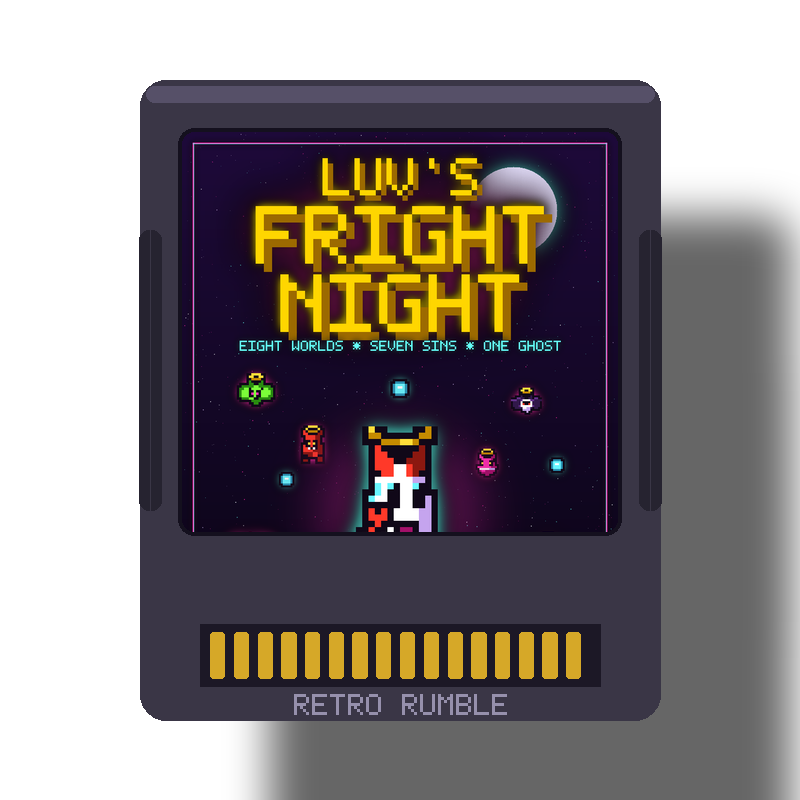
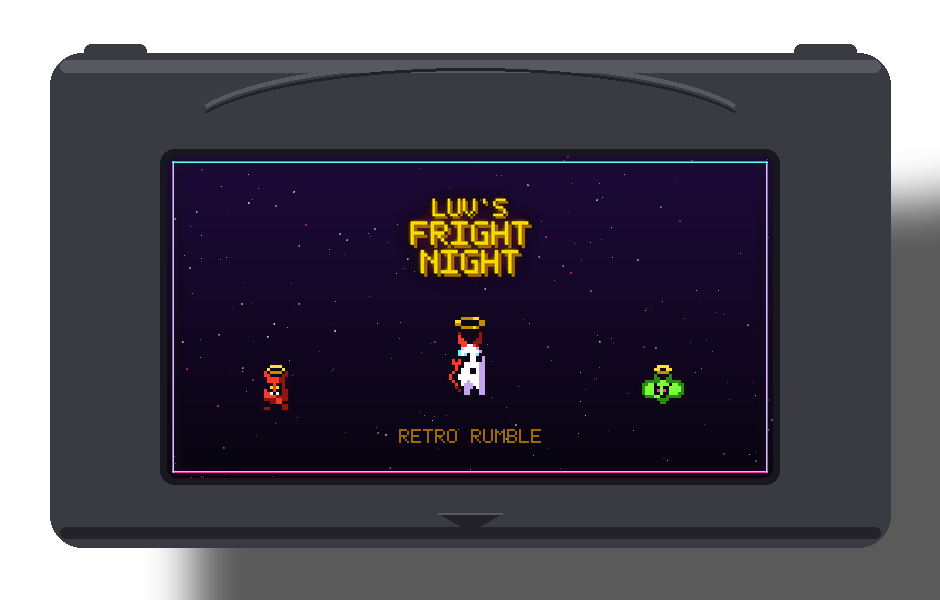
The cartridge was the wrong shape entirely
A Game Boy Advance cartridge is landscape, about 1.7 to 1. Mine was
portrait, which is a Game Boy or a DS card, not this. Rebuilt against a
photograph of a blank shell: the proportions of the label are measured off
it - 14% margins at the sides, 21% above, 14% below - and that wide top
band is what carries the shallow dome moulded across the shell. The tabs
at the upper corners clear the top edge by a few pixels, which is what
stops them reading as ears, and the thumb notch sits at the foot.

The label had to be redrawn too. The box front is portrait and cropping it
to a landscape label loses either the wordmark or the ghost, so the label
lays the same pieces out in bands that cannot collide.

The moulded lettering on a real shell reads GAME BOY ADVANCE and is not
reproduced. The silhouette is what makes it read as a cartridge; the
wordmark is Nintendo's.

The pairing shot picked the new cart up and needed reseating - a landscape
object stands on the same line as the box rather than floating beside its
middle.

diff --git a/tools/gen_print.py b/tools/gen_print.py
@@ -92,71 +92,108 @@ def shadow(img, blur=18, strength=0.75, offset=(14, 18)):
 
 # ---------------------------------------------------------------- cartridge
 
-def cartridge(path, w=800, h=800):
+def _cart_label(w, h):
     """
-    The cart itself: grey shell, printed label, gold contacts.
+    The printed label, drawn landscape.
 
-    Frontends that show a "support" image expect the thing you would actually
-    hold, so the label is the box art cropped to the label's own proportions
-    rather than the box shrunk down.
+    The box front is portrait, and cropping it to a cartridge label loses
+    either the wordmark or the ghost. This lays the same pieces out for the
+    shape the label actually is, in bands that cannot collide.
+    """
+    img = gs.backdrop(w, h, seed=17)
+
+    lock, _pad = gs.title_block(4, 3)
+    lock.thumbnail((int(w * 0.70), int(h * 0.38)), Image.LANCZOS)
+    img.alpha_composite(lock, ((w - lock.width) // 2, int(h * 0.06)))
+
+    # Luv sits in the middle band, sized so his feet stop above the credit.
+    feet = int(h * 0.80)
+    luv = gs.sprite('luv', 0, 32, 3)
+    img.alpha_composite(luv, ((w - luv.width) // 2, feet - luv.height))
+
+    for i, name in enumerate(('halo_imp', 'cherub_fiend')):
+        art = gs.sprite(name, 0, 16, 3)
+        x = int(w * (0.18 if i == 0 else 0.82)) - art.width // 2
+        img.alpha_composite(art, (x, feet - art.height))
+
+    strip = Image.new('RGBA', (w, 30), (0, 0, 0, 0))
+    boxfont.centered(strip, 'RETRO RUMBLE', 0, gs.DGOLD, 2)
+    img.alpha_composite(strip, (0, int(h * 0.85)))
+
+    gs.neon_frame(img, 5, 2)
+    return img
+
+
+def cartridge(path, w=940, h=600):
+    """
+    A Game Boy Advance cartridge, seen face on.
+
+    Landscape at about 1.7 to 1, with the shallow dome moulded into the band
+    above the label, the two tabs at the upper corners and the thumb notch at
+    the foot. Proportions are taken off a real shell: the label leaves a wide
+    margin at the top - that band is where the moulded lettering goes - and
+    tighter ones at the sides and foot.
+
+    That lettering reads "GAME BOY ADVANCE" on a real cartridge and is not
+    reproduced here. The silhouette is what makes it read as a cartridge; the
+    wordmark is Nintendo's and this game is not theirs.
     """
     img = Image.new('RGBA', (w, h), (0, 0, 0, 0))
-    d = ImageDraw.Draw(img)
 
-    bw, bh = 520, 640
+    bw, bh = 840, 494
     bx, by = (w - bw) // 2, (h - bh) // 2
-    shell = (58, 54, 70, 255)
-    lip = (86, 80, 104, 255)
+    shell = (58, 58, 66, 255)
+    lit = (88, 88, 98, 255)
+    dark = (34, 34, 40, 255)
 
     body = Image.new('RGBA', (w, h), (0, 0, 0, 0))
     bd = ImageDraw.Draw(body)
-    bd.rounded_rectangle([bx, by, bx + bw, by + bh], radius=26, fill=shell)
 
-    # The two grip notches down the sides, and the bevel that catches light.
+    # Tabs at the upper corners: they clear the top edge by a few pixels only,
+    # which is what stops them reading as ears.
     for side in (0, 1):
-        x = bx - 1 if side == 0 else bx + bw - 21
-        bd.rounded_rectangle([x, by + 150, x + 22, by + 430], radius=10,
-                             fill=(38, 35, 48, 255))
+        tx = bx + 34 if side == 0 else bx + bw - 96
+        bd.rounded_rectangle([tx, by - 9, tx + 62, by + 42], radius=7,
+                             fill=shell)
 
-    bd.rounded_rectangle([bx + 6, by + 6, bx + bw - 6, by + 22], radius=8,
-                         fill=lip)
+    bd.rounded_rectangle([bx, by, bx + bw, by + bh], radius=32, fill=shell)
+    bd.rounded_rectangle([bx + 10, by + 7, bx + bw - 10, by + 19], radius=6,
+                         fill=lit)
+    bd.rounded_rectangle([bx + 10, by + bh - 20, bx + bw - 10, by + bh - 9],
+                         radius=6, fill=dark)
 
-    # Label: the box art, cropped to the label's shape.
-    lw, lh = bw - 84, 400
-    lx, ly = bx + 42, by + 52
-    art = Image.open(os.path.join(MEDIA, 'box', 'box-front.png')).convert('RGBA')
-    scale = max(lw / art.width, lh / art.height)
-    art = art.resize((int(art.width * scale), int(art.height * scale)),
-                     Image.LANCZOS)
-    art = art.crop((0, 0, lw, lh))
+    # The dome, moulded into the band above the label - inside the shell, not
+    # floating over its top edge.
+    bd.arc([bx + 132, by + 8, bx + bw - 132, by + 150], 203, 337, fill=lit,
+           width=5)
+    bd.arc([bx + 132, by + 15, bx + bw - 132, by + 157], 203, 337, fill=dark,
+           width=3)
 
-    label = Image.new('RGBA', (lw, lh), (0, 0, 0, 0))
+    # Label: measured off the reference - 14% margins at the sides, 21% above,
+    # 14% below, so the band that carries the moulding stays clear.
+    lx = bx + int(bw * 0.14)
+    ly = by + int(bh * 0.21)
+    lw = bw - 2 * int(bw * 0.14)
+    lh = bh - int(bh * 0.21) - int(bh * 0.14)
+
+    bd.rounded_rectangle([lx - 7, ly - 7, lx + lw + 6, ly + lh + 6], radius=14,
+                         fill=(24, 22, 30, 255))
+
+    label = _cart_label(lw, lh)
     mask = Image.new('L', (lw, lh), 0)
-    ImageDraw.Draw(mask).rounded_rectangle([0, 0, lw - 1, lh - 1], radius=12,
+    ImageDraw.Draw(mask).rounded_rectangle([0, 0, lw - 1, lh - 1], radius=10,
                                            fill=255)
-    label.paste(art, (0, 0), mask)
-    bd.rounded_rectangle([lx - 4, ly - 4, lx + lw + 3, ly + lh + 3], radius=16,
-                         fill=(20, 16, 30, 255))
-    body.alpha_composite(label, (lx, ly))
+    flat = Image.new('RGBA', (lw, lh), (0, 0, 0, 0))
+    flat.paste(label, (0, 0), mask)
+    body.alpha_composite(flat, (lx, ly))
 
-    # Contacts along the bottom edge, and the slot they sit in.
-    cy = by + bh - 96
-    bd.rectangle([bx + 60, cy, bx + bw - 60, cy + 62], fill=(28, 24, 38, 255))
+    # The thumb notch at the foot.
+    cx = bx + bw // 2
+    fy = by + bh - 34
+    bd.polygon([(cx - 32, fy), (cx + 32, fy), (cx, fy + 19)], fill=dark)
+    bd.line([(cx - 32, fy), (cx + 32, fy)], fill=lit, width=2)
 
-    pins = 16
-    span = (bw - 140) / pins
-
-    for i in range(pins):
-        px = bx + 70 + i * span
-        bd.rounded_rectangle([px, cy + 8, px + span * 0.6, cy + 54], radius=3,
-                             fill=(214, 168, 40, 255))
-
-    # Not "GBA": that is Nintendo's mark, and stamping it on a cartridge
-    # shape is exactly the kind of thing that gets a repository complained
-    # about. The shell is generic; the label is ours.
-    boxfont.centered(body, 'RETRO RUMBLE', by + bh - 26, (150, 144, 172, 255), 3)
-
-    blur, at = shadow(body, 20, 0.6, (10, 16))
+    blur, at = shadow(body, 22, 0.65, (12, 18))
     img.alpha_composite(blur, at)
     img.alpha_composite(body)
     img.save(path)
@@ -452,12 +489,14 @@ def shelf(path, w=1600, h=900):
     box.thumbnail((720, 720), Image.LANCZOS)
     cart = Image.open(
                 os.path.join(MEDIA, 'cartridge', 'cart.png')).convert('RGBA')
-    cart.thumbnail((470, 470), Image.LANCZOS)
+    cart.thumbnail((600, 600), Image.LANCZOS)
 
     # The box behind and to the left, the cartridge in front of its near edge -
     # the cart is the smaller object, so it comes forward.
-    bx, by = 190, (h - box.height) // 2 - 20
-    cx, cy = 830, (h - cart.height) // 2 + 30
+    # The cart is a landscape object now, so it is seated on the same line the
+    # box stands on rather than floating beside its middle.
+    bx, by = 170, (h - box.height) // 2 - 20
+    cx, cy = 840, by + box.height - cart.height - 30
 
     blur, at = shadow(box, 26, 0.75, (20, 26))
     img.alpha_composite(blur, (bx + at[0], by + at[1]))
